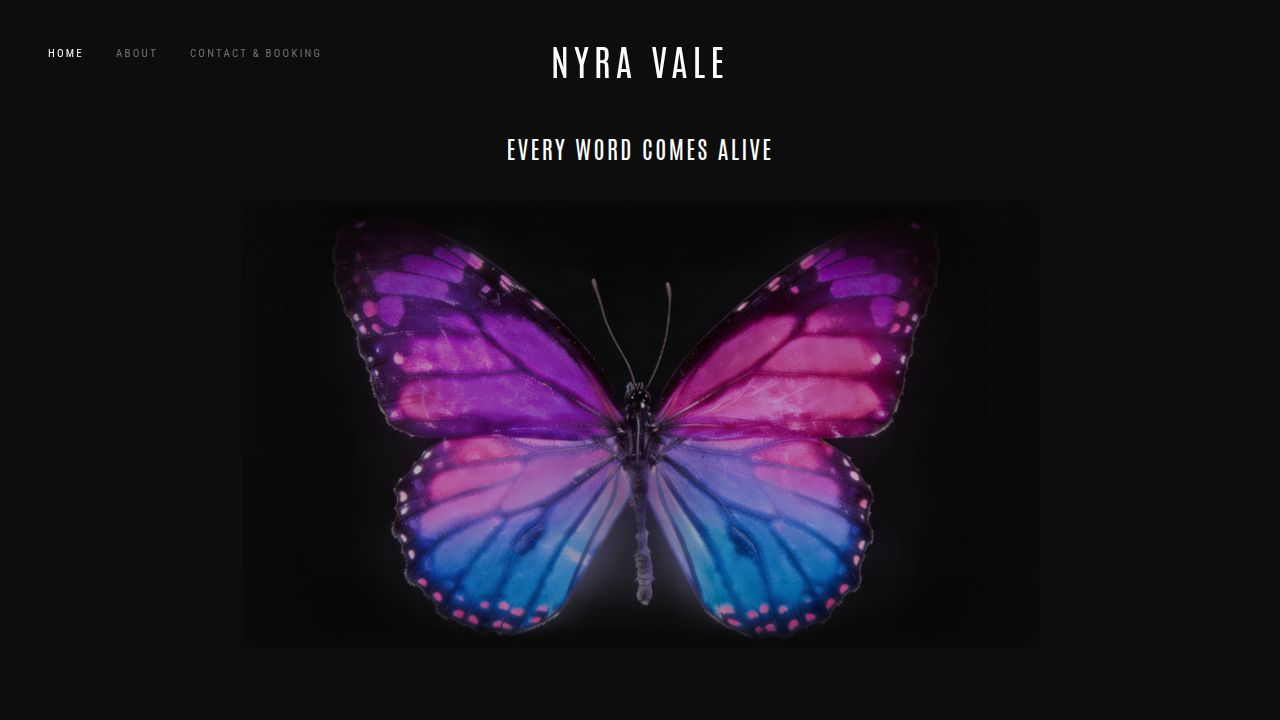
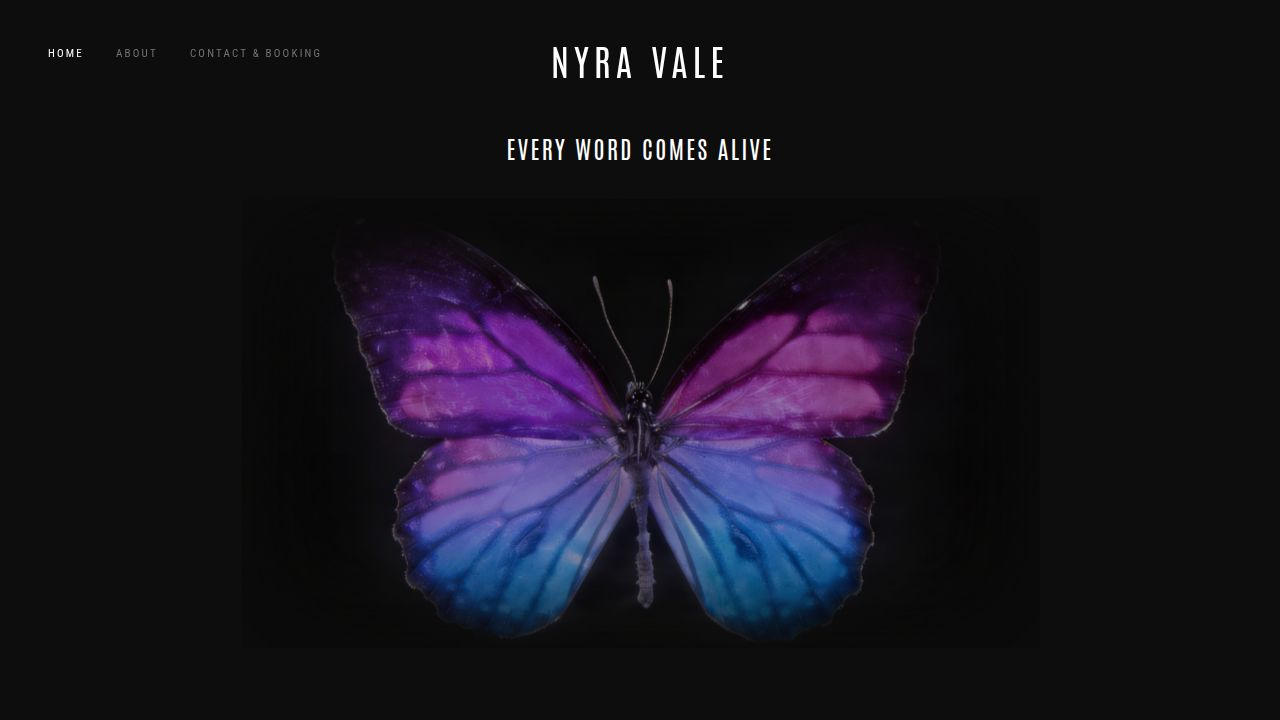
Adjust image blending to soften edges and improve background integration
Update the butterfly image mask to use a radial gradient and apply a stronger inset shadow to seamlessly blend edges with the background.

Replit-Commit-Author: Agent
Replit-Commit-Session-Id: abb7d197-0130-4365-8f3e-36aec6207882
Replit-Commit-Checkpoint-Type: full_checkpoint
Replit-Commit-Event-Id: e5e4cff6-cd0f-4fd7-98fa-f40b37ce8f9e
Replit-Commit-Screenshot-Url: https://storage.googleapis.com/screenshot-production-us-central1/acc114d5-8ff7-4aa1-90f1-90320e5e6cb7/abb7d197-0130-4365-8f3e-36aec6207882/tLk1SEl
Replit-Helium-Checkpoint-Created: true

Changed region(s): [[0.25, 0.3361, 0.7188, 0.8861]]

diff --git a/client/src/pages/home.tsx b/client/src/pages/home.tsx
@@ -44,14 +44,12 @@ export default function Home() {
               alt="Artistic Butterfly" 
               className="w-full h-full object-cover opacity-80"
               style={{
-                maskImage: "linear-gradient(to bottom, transparent, black 2%, black 95%, transparent), linear-gradient(to right, transparent, black 15%, black 85%, transparent)",
-                maskComposite: "intersect",
-                WebkitMaskImage: "linear-gradient(to bottom, transparent, black 2%, black 95%, transparent), linear-gradient(to right, transparent, black 15%, black 85%, transparent)",
-                WebkitMaskComposite: "source-in"
+                maskImage: "radial-gradient(ellipse at center, black 60%, transparent 95%)",
+                WebkitMaskImage: "radial-gradient(ellipse at center, black 60%, transparent 95%)"
               }}
             />
-            {/* Box Shadow Overlay for Blended Edges - Reduced opacity to avoid dimming */}
-            <div className="absolute inset-0 shadow-[inset_0_0_60px_10px_#0d0d0d] pointer-events-none opacity-30" />
+            {/* Box Shadow Overlay for Blended Edges */}
+            <div className="absolute inset-0 shadow-[inset_0_0_80px_40px_#0d0d0d] pointer-events-none opacity-80" />
             
             {/* Darkened area for butterfly lower body */}
             <div 
